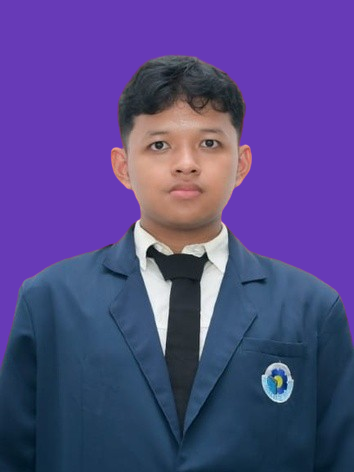
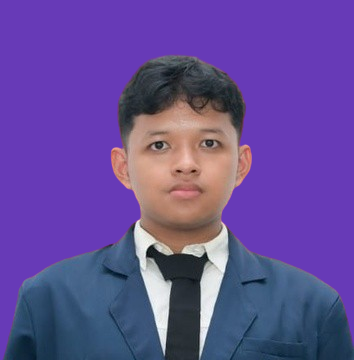
update lanjutan

diff --git a/index.html b/index.html
@@ -63,47 +63,71 @@
     <section class="section pt-0" id="about">
         <!-- container -->
         <div class="container text-center">
-            <!-- about wrapper -->
+            <!-- about1 section -->
+            <section class="section" id="about">
+                <div class="container text-center">
+                    <p class="section-subtitle">Who Am I?</p>
+                    <h6 class="section-title mb-1">About Me</h6>
+                    <p>
+                       An Applied Bachelor’s Degree graduate in Information System Security, dedicated and detail-oriented with a strong foundation in IT, including web development, network security, and system administration. Experienced in managing digital systems and administrative workflows to ensure efficiency and reliability. Recognized for strong analytical thinking, problem-solving abilities, and clear communication, with the capability to collaborate effectively across teams. Adaptable, organized, and committed to continuous learning, ready to contribute both technical and administrative expertise to support organizational growth.</b>
+                </div>
+            </section>
+           <!-- about wrapper -->
             <div class="about">
                 <div class="about-img-holder">
-                    <img src="assets/imgs/thoriq-ungu.png" class="about-img" alt="Profile Picture">
+                    <img src="assets/imgs/thoriq-bg.jpeg" class="about-img" alt="Profile Picture">
                 </div>
                 <div class="about-caption">
-                    <p class="section-subtitle">Who Am I?</p>
-                    <h2 class="section-title mb-3">About Me</h2>
-                    <p>
-                        I am Thoriq Nadaghoist Suharyadi, a graduate of the Information System Security program at Politeknik Negeri Bengkalis. 
-                        My academic background and research have given me strong expertise in <b>network security, website development, system design, and Linux-based server technologies</b>. 
-                        I also have hands-on experience in <b>penetration testing, security analysis, and developing storage and hosting solutions using set-top box (STB) technology</b>.
-                        <br><br>
-                        Through my projects and research, I have developed the ability to think analytically and work collaboratively to deliver secure and reliable information systems. 
-                        In addition to technical expertise, I am highly proficient in Bahasa Indonesia, advanced in English for professional communication, and currently learning Japanese to expand cross-cultural skills.
-                    </p>
-                     <!-- Language Skills -->
-                    <div class="mt-4">
-                        <h6 class="mb-2">Language Skills</h6>
-                        
-                        <p class="mb-1">Bahasa Indonesia (Fluent)</p>
-                        <div class="progress mb-3" style="height: 10px;">
-                            <div class="progress-bar bg-primary" role="progressbar" style="width: 100%;" 
-                                aria-valuenow="100" aria-valuemin="0" aria-valuemax="100"></div>
+                    <div class="mt-5">
+                        <h4 class="mb-2">Web Developer & Cloud Computing</h4>
+                    </div>
+                    <p>I am a Information System Security graduate with experience in web development, network security, system administration and penetration tester. I am skilled in web development & tester, cloud computing, and managing documents with accuracy and professionalism.</p>
+                    <div class="row">
+                        <div class="col-lg-6">
+                            <ul>
+                            <li><i class="bi bi-chevron-right"></i> <strong>Birthday:</strong> <span>15 July 2003</span></li>
+                            <li><i class="bi bi-chevron-right"></i> <strong>Website:</strong> <span>vynixxx.github.io/portfolio-thoriq/</span></li>
+                            <li><i class="bi bi-chevron-right"></i> <strong>City:</strong> <span>Bengkalis Regency, Riau, Indonesia</span></li>
+                            </ul>
                         </div>
-                        
-                        <p class="mb-1">English (Advanced)</p>
-                        <div class="progress mb-3" style="height: 10px;">
-                            <div class="progress-bar bg-primary" role="progressbar" style="width: 85%;" 
-                                aria-valuenow="85" aria-valuemin="0" aria-valuemax="100"></div>
-                        </div>
-                        
-                        <p class="mb-1">日本語 / Japanese (intermediate)</p>
-                        <div class="progress mb-3" style="height: 10px;">
-                            <div class="progress-bar bg-primary" role="progressbar" style="width: 40%;" 
-                                aria-valuenow="40" aria-valuemin="0" aria-valuemax="100"></div>
+                        <div class="col-lg-6">
+                            <ul>
+                            <li><i class="bi bi-chevron-right"></i> <strong>Age:</strong> <span>22</span></li>
+                            <li><i class="bi bi-chevron-right"></i> <strong>Degree:</strong> <span>Bachelor of Applied Science</span></li>
+                            <li><i class="bi bi-chevron-right"></i> <strong>Email:</strong> <span>vynixjob@gmail.com</span></li>
+                            </ul>
                         </div>
                     </div>
-                    <a href="assets/docs/CV-Thoriq.pdf" download class="btn-rounded btn btn-outline-primary mt-2">
-                        Download CV
-                    </a>
+                   
+                    <!-- Language Skills -->
+                    <div class="mt-4">
+                        <h5 class="mb-3">Language Skills</h5>
+
+                        <div class="lang-box mb-3">
+                            <div class="d-flex justify-content-between">
+                                <span class="fw-semibold">Bahasa Indonesia</span>
+                                <span class="text-muted small">Fluent</span>
+                            </div>
+                            <div class="lang-bar"><div style="width: 100%;"></div></div>
+                        </div>
+
+                        <div class="lang-box mb-3">
+                            <div class="d-flex justify-content-between">
+                                <span class="fw-semibold">English</span>
+                                <span class="text-muted small">Advanced</span>
+                            </div>
+                            <div class="lang-bar"><div style="width: 85%;"></div></div>
+                        </div>
+
+                        <div class="lang-box mb-3">
+                            <div class="d-flex justify-content-between">
+                                <span class="fw-semibold">日本語 / Japanese</span>
+                                <span class="text-muted small">Intermediate</span>
+                            </div>
+                            <div class="lang-bar"><div style="width: 40%;"></div></div>
+                        </div>
+                    </div>
+                <div class="mt-5"></div>
                 </div>
             </div><!-- end of about wrapper -->
         </div><!-- end of container -->
@@ -182,6 +206,9 @@
                 <div class="col-4 col-md-2 mb-4" data-aos="zoom-in" data-aos-delay="500">
                     <i class="fab fa-laravel fa-4x skill-icon" title="Laravel"></i>
                 </div>
+                <div class="col-4 col-md-2 mb-4" data-aos="zoom-in" data-aos-delay="550">
+                    <i class="fab fa-wordpress fa-4x skill-icon" title="WordPress"></i>
+                </div>
 
                 <!-- Operating Systems -->
                 <div class="col-4 col-md-2 mb-4" data-aos="zoom-in" data-aos-delay="600">
@@ -221,53 +248,146 @@
             once: true
         });
     </script>
-
-    <!-- portfolio section -->
-    <section class="section" id="portfolio">
+    
+    <!-- Resume Section -->
+    <section class="section" id="resume">
         <div class="container text-center">
-            <p class="section-subtitle">What I Did ?</p>
-            <h6 class="section-title mb-6">Portfolio</h6>
-            <!-- row -->
-            <div class="row">
-                <div class="col-md-4">
-                    <a href="#" class="portfolio-card">
-                        <img src="assets/imgs/server.jpg" class="portfolio-card-img"
-                            alt="Download free bootstrap 4 landing page, free boootstrap 4 templates, Download free bootstrap 4.1 landing page, free boootstrap 4.1.1 templates, meyawo Landing page">
-                        <span class="portfolio-card-overlay">
-                            <span class="portfolio-card-caption">
-                                <h4>Server & Hosting</h5>
-                                    <p class="font-weight-normal">Category: Linux & STB Deployment</p>
-                            </span>
-                        </span>
-                    </a>
+            <p class="section-subtitle">My Journey</p>
+            <h6 class="section-title mb-4">Resume</h6>
+
+            <div class="row justify-content-center">
+
+                <!-- Left Column -->
+                <div class="col-lg-6 mb-4" data-aos="fade-up">
+
+                    <!-- Summary -->
+                    <div class="resume-box p-4 shadow-sm rounded mb-4">
+                        <h4 class="resume-title">Summary</h4>
+                        <h5 class="mt-3">Thoriq Nadaghoist Suharyadi</h5>
+                        <p>
+                            <em>Information System Security graduate with experience in penetration testing, server development, 
+                            and Linux server</em>
+                        </p>
+                        <a href="assets/docs/CV-Thoriq.pdf" class="btn btn-outline-primary btn-sm btn-rounded mt-2" download>
+                            <i class="fa fa-download"></i> Download CV
+                        </a>
+                    </div>
+
+                    <!-- Education -->
+                    <div class="resume-box p-4 shadow-sm rounded mb-4">
+                        <h4 class="resume-title">Education</h4>
+
+                        <div class="resume-item">
+                            <h5>Bachelor of Applied Science – Information System Security</h5>
+                            <span class="resume-date">2021 – 2025</span>
+                            <p><em>State Polytechnic of Bengkalis</em></p>
+                            <p>
+                                Completed academic research in network security, NAS using STB, 
+                                server optimization, and penetration testing.
+                            </p>
+                        </div>
+
+                        <!-- Journal Publication -->
+                        <div class="resume-item mt-4">
+                            <h5 class="mb-1">Journal Publication</h5>
+                            <p class="mb-1">
+                                <strong><em>Design and Development of Network Attached Storage Using Set Top Box as Centralized Storage</em></strong>
+                            </p>
+                            <p>
+                                Published in Techno.COM | Universitas Dian Nuswantoro  
+                            </p>
+                            <a href="https://publikasi.dinus.ac.id/technoc/article/view/12545/5285" 
+                            target="_blank" class="btn btn-sm btn-outline-primary btn-rounded">
+                                View Publication
+                            </a>
+                        </div>
+
+                    </div>
+                    <!-- Organizational -->
+                    <div class="resume-box p-4 shadow-sm rounded mb-4">
+                        <h4 class="resume-title">Organizational Experience</h4>
+
+                        <div class="resume-item">
+                            <h5>Religious Staff</h5>
+                            <span class="resume-date">2022 – 2023</span>
+                            <p><em>Informatics Engineering Student Association</em></p>
+                            <ul style="text-align: justify;">
+                                <li>Managed religious division programs and event coordination.</li>
+                                <li>Collaborated with internal organizational units for activity planning.</li>
+                            </ul>
+                        </div>
+
+                    </div>
+
+
                 </div>
-                <div class="col-md-4">
-                    <a href="#" class="portfolio-card">
-                        <img class="portfolio-card-img" src="assets/imgs/pentest.png" class="img-responsive rounded"
-                            alt="Download free bootstrap 4 landing page, free boootstrap 4 templates, Download free bootstrap 4.1 landing page, free boootstrap 4.1.1 templates, meyawo Landing page">
-                        <span class="portfolio-card-overlay">
-                            <span class="portfolio-card-caption">
-                                <h4>Penetration Testing & Network Security</h5>
-                                    <p class="font-weight-normal">Category: Penetration Testing, Security Assessment, Network Security & Audit</p>
-                            </span>
-                        </span>
-                    </a>
+
+                <!-- Right Column -->
+                <div class="col-lg-6 mb-4" data-aos="fade-up" data-aos-delay="150">
+
+                    <!-- Experience -->
+                    <div class="resume-box p-4 shadow-sm rounded mb-4">
+                        <h4 class="resume-title">Professional Experience</h4>
+
+                        <!-- Management Staff -->
+                        <div class="resume-item">
+                            <h5>Management Staff (Internship)</h5>
+                            <span class="resume-date">Feb – Jul 2025</span>
+                            <p><em>PT. Mahir Trans Bersaudara</em></p>
+                            <ul style="text-align: justify;">
+                                <li>Supported daily office operations such as data processing, documentation, and internal report preparation, improving administrative workflow efficiency.</li>
+                                <li>Redesigned the company logo to strengthen brand identity and ensure consistent visual usage across media.</li>
+                                <li>Planned website structure, user flow, and content layout to support future development of the company’s official site.</li>
+                                <li>Developed the initial draft of the company’s website (not yet hosted) as part of the digitalization initiative.</li>
+                                <li>Organized and archived documents to improve accessibility and reduce file search time.</li>
+                            </ul>
+                        </div>
+
+                        <!-- Vulnerability Assessment Assistant -->
+                        <div class="resume-item mt-4">
+                            <h5>Vulnerability Assessment Assistant</h5>
+                            <span class="resume-date">Nov 2023 – Feb 2024</span>
+                            <p><em>Assisting Lecturer Research</em></p>
+                            <ul style="text-align: justify;">
+                                <li>Performed systematic vulnerability scanning using appropriate tools and methodologies to identify potential website weaknesses.</li>
+                                <li>Conducted manual verification of automated scan results, reducing false positives and improving assessment accuracy.</li>
+                                <li>Documented findings with clear technical explanations including risk levels, affected components, and potential impacts.</li>
+                                <li>Prepared structured reports containing analysis, screenshots, results, and supporting documentation for research purposes.</li>
+                            </ul>
+                        </div>
+
+                        <!-- IT Helper -->
+                        <div class="resume-item mt-4">
+                            <h5>IT Helper (Internship)</h5>
+                            <span class="resume-date">Mar – Jul 2020</span>
+                            <p><em>PT. Radiant Utama Interinsco Tbk</em></p>
+                            <ul style="text-align: justify;">
+                                <li>Handled reports, documentation, and administrative tasks for IT and HR departments, improving internal record accuracy.</li>
+                                <li>Maintained company IT infrastructure including hardware, networks, and systems, reducing system downtime and improving workflow.</li>
+                                <li>Performed basic troubleshooting and device setup to support employee productivity.</li>
+                                <li>Provided on-site assistance during IT operations and infrastructure activities, enhancing team coordination.</li>
+                            </ul>
+                        </div>
+
+                        <!-- Administrator -->
+                        <div class="resume-item mt-4">
+                            <h5>Administrator</h5>
+                            <span class="resume-date">Jul 2022 – Feb 2023</span>
+                            <p><em>Gudang Hoster</em></p>
+                            <ul style="text-align: justify;">
+                                <li>Managed and maintained website content including product details, promotions, and service updates.</li>
+                                <li>Promoted hosting packages and website development services through digital marketing.</li>
+                                <li>Created SEO-friendly articles, descriptions, and blog content to boost website ranking and engagement.</li>
+                                <li>Handled customer inquiries, explained products, and guided users during the purchasing process.</li>
+                            </ul>
+                        </div>
+                    </div>
                 </div>
-                <div class="col-md-4">
-                    <a href="#" class="portfolio-card">
-                        <img class="portfolio-card-img" src="assets/imgs/webdev.jpg" class="img-responsive rounded"
-                            alt="Download free bootstrap 4 landing page, free boootstrap 4 templates, Download free bootstrap 4.1 landing page, free boootstrap 4.1.1 templates, meyawo Landing page">
-                        <span class="portfolio-card-overlay">
-                            <span class="portfolio-card-caption">
-                                <h4>Website Development</h5>
-                                    <p class="font-weight-normal">Category: Static & Dynamic Websites</p>
-                            </span>
-                        </span>
-                    </a>
-                </div>
-            </div><!-- end of row -->
-        </div><!-- end of container -->
-    </section> <!-- end of portfolio section -->
+
+            </div>
+        </div>
+    </section>
+    <!-- End Resume Section -->
     
     <!-- highlight project section -->
     <section class="section bg-light" id="highlight-projects">

diff --git a/assets/css/meyawo.css b/assets/css/meyawo.css
@@ -1,17 +1,5 @@
 @charset "UTF-8";
-/*!
-=========================================================
-* Meyawo Landing page
-=========================================================
 
-* Copyright: 2019 DevCRUD (https://devcrud.com)
-* Licensed: (https://devcrud.com/licenses)
-* Coded by www.devcrud.com
-
-=========================================================
-
-* The above copyright notice and this permission notice shall be included in all copies or substantial portions of the Software.
-*/
 @import url("https://fonts.googleapis.com/css?family=Baloo+Paaji|Open+Sans:300,300i,400,400i,600,600i,700,700i");
 :root {
   --blue: #1e549f;
@@ -302,6 +290,24 @@ input[type="time"],
 input[type="datetime-local"],
 input[type="month"] {
   -webkit-appearance: listbox;
+}
+
+.lang-box {
+    padding: 12px 14px;
+}
+
+.lang-bar {
+    margin-top: 8px;
+    height: 8px;
+    background: #e4e4ef;
+    border-radius: 20px;
+    overflow: hidden;
+}
+
+.lang-bar div {
+    height: 100%;
+    background: linear-gradient(90deg, #4b7bff, #7b4bff);
+    border-radius: 20px;
 }
 
 textarea {
@@ -12171,8 +12177,8 @@ pre .code {
 }
 
 .about-img-holder {
-  min-width: 400px;
-  max-width: 400px;
+  min-width: 350px;
+  max-width: 350px;
   margin-right: 20px;
 }
 
